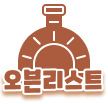
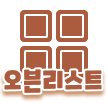
Feat : 플로팅버튼 로그인/비로그인 내용 분기처리
비로그인상태일때 오븐리스트버튼,로그인 상태일때 내오븐가기버튼 으로 분기처리

Changed region(s): [[0.1667, 0.0288, 0.8333, 0.7212], [0.5833, 0.6923, 0.6389, 0.7212], [0.1944, 0.7788, 0.2222, 0.8077]]

diff --git a/src/components/share/FloatingButton.jsx b/src/components/share/FloatingButton.jsx
@@ -3,7 +3,7 @@ import { styled } from "styled-components";
 import { Link, useLocation } from "react-router-dom";
 import { floatIcon } from '../../style/_Img.import';
 import { useRecoilState } from 'recoil';
-import { LoginState } from '../../atoms/LoginState';
+import { LoginState } from '../../atoms/loginState';
 
 export default function FloatingButton () {
     const [isLoggedIn,setIsLoggedIn] = useRecoilState(LoginState);
@@ -31,10 +31,10 @@ export default function FloatingButton () {
             $toggle={toggle} 
             $transy="-352px"
         />
-        {isLoggedIn ? 
+        {isLoggedIn ? //로그인여부에 따른 분기처리 
         <SubButton 
             to="/ovenlist"
-            $img={floatIcon.ovenlist} 
+            $img={floatIcon.myoven} 
             $toggle={toggle} 
             $transy="-264px"/>:
         <SubButton 
